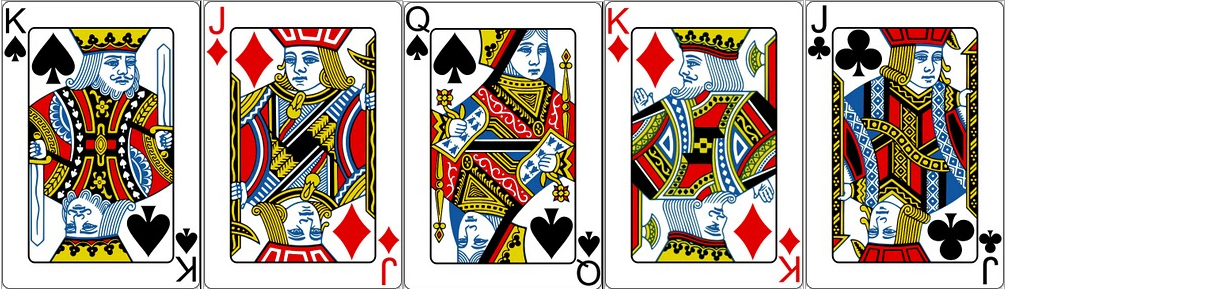
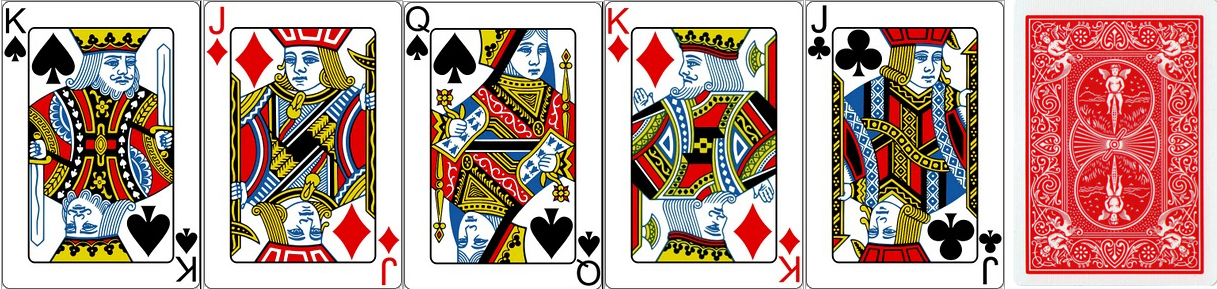
change effect when click for mind_reading

Changed region(s): [[0.8431, 0.0311, 1.0, 0.9965], [0.9992, 0.0, 1.0, 0.0311]]

diff --git a/games/mind_reading/mind_reading.js b/games/mind_reading/mind_reading.js
@@ -7,9 +7,11 @@ $(document).ready(function(){
 	});
 
 	$('#magician').click(function(){
-		$('#cards').empty();
-		$('#cards').append("<h3>Your card has disappered!!! Don't belive me? Try to find it!!!</h3><br><img class='img-responsive' src='set2.jpg'/><br><img id='magician' class='img-responsive' src='magician.jpg'/>");
+		$(this).fadeOut('slow', function(){
+			$('#cards').empty();
+			$('#cards').append("<h3>Your card has disappered!!! Don't belive me? Try to find it!!!</h3><br><img class='img-responsive' src='set2.jpg'/><br><img id='magician' class='img-responsive' src='magician.jpg'/><br><div><a href='../../games.html'><button type='button' class='btn-lg btn-info'>Quit</button></a></div>");
+		});
+		
 	});
 	
-
 });

diff --git a/games.html b/games.html
@@ -57,12 +57,13 @@
 <div class="container">
   <div class="row">
     <div class="col-sm-12 col-md-6 col-lg-4">
-      <a href="games/tuxi/tuxi.html"><img class="img-responsive" src="img/tuxi.png"/>
-      <h4>Rock-Paper-Scissor</h4></a>
+      <a href="games/tuxi/tuxi.html"><img class="img-responsive" src="img/tuxi.jpg"/>
+      <h2>Rock-Paper-Scissors</h2></a>
     </div>
 
     <div class="col-sm-12 col-md-6 col-lg-4">
-
+		<a href="games/mind_reading/mind_reading.html"><img class="img-responsive" src="img/mind_reading.jpg"/>
+      <h2>Mind Reading</h2></a>
     </div>
     <div class="col-sm-12 col-md-6 col-lg-4">
 

diff --git a/games/tuxi/tuxi.html b/games/tuxi/tuxi.html
@@ -79,12 +79,16 @@
 		</div>
 		
 		<div class="result">
-		<h3>'QUÁNH TÙ XÌ RA CÁI GÌ RA CÁI NÀY. EM RA CÁI GÌ?'</h3>
+		<h3>'QUÁNH TÙ XÌ RA CÁI GÌ RA CÁI NÀY!!!'</h3>
 		</div>
 		
 		<div class="anh">
 		<h1>ANH</h1>
 		<img class="img-responsive" src="question-mark.jpg"/>
+		</div>
+		
+		<div>
+			<a href="../../games.html"><button type="button" class="btn-lg btn-info">Quit</button></a>
 		</div>
 </div>
 <audio autoplay>

diff --git a/games/mind_reading/mind_reading.html b/games/mind_reading/mind_reading.html
@@ -65,7 +65,7 @@
 	<br>
 	<img class="img-responsive" src="set1.jpg"/><br>
 	<h3>Ready? Click on the Magician</h3>
-	<img id="magician" class="img-responsive" src="magician.jpg"/>
+	<img id="magician" class="img-responsive" src="magician.jpg"/><br>
 	
 </div>
 

diff --git a/games/mind_reading/mind_reading.css b/games/mind_reading/mind_reading.css
@@ -2,3 +2,7 @@
 	max-width: 400px;
 	border: solid blue;
 	}
+	
+body {
+	background-color: #b79dc6;
+}
